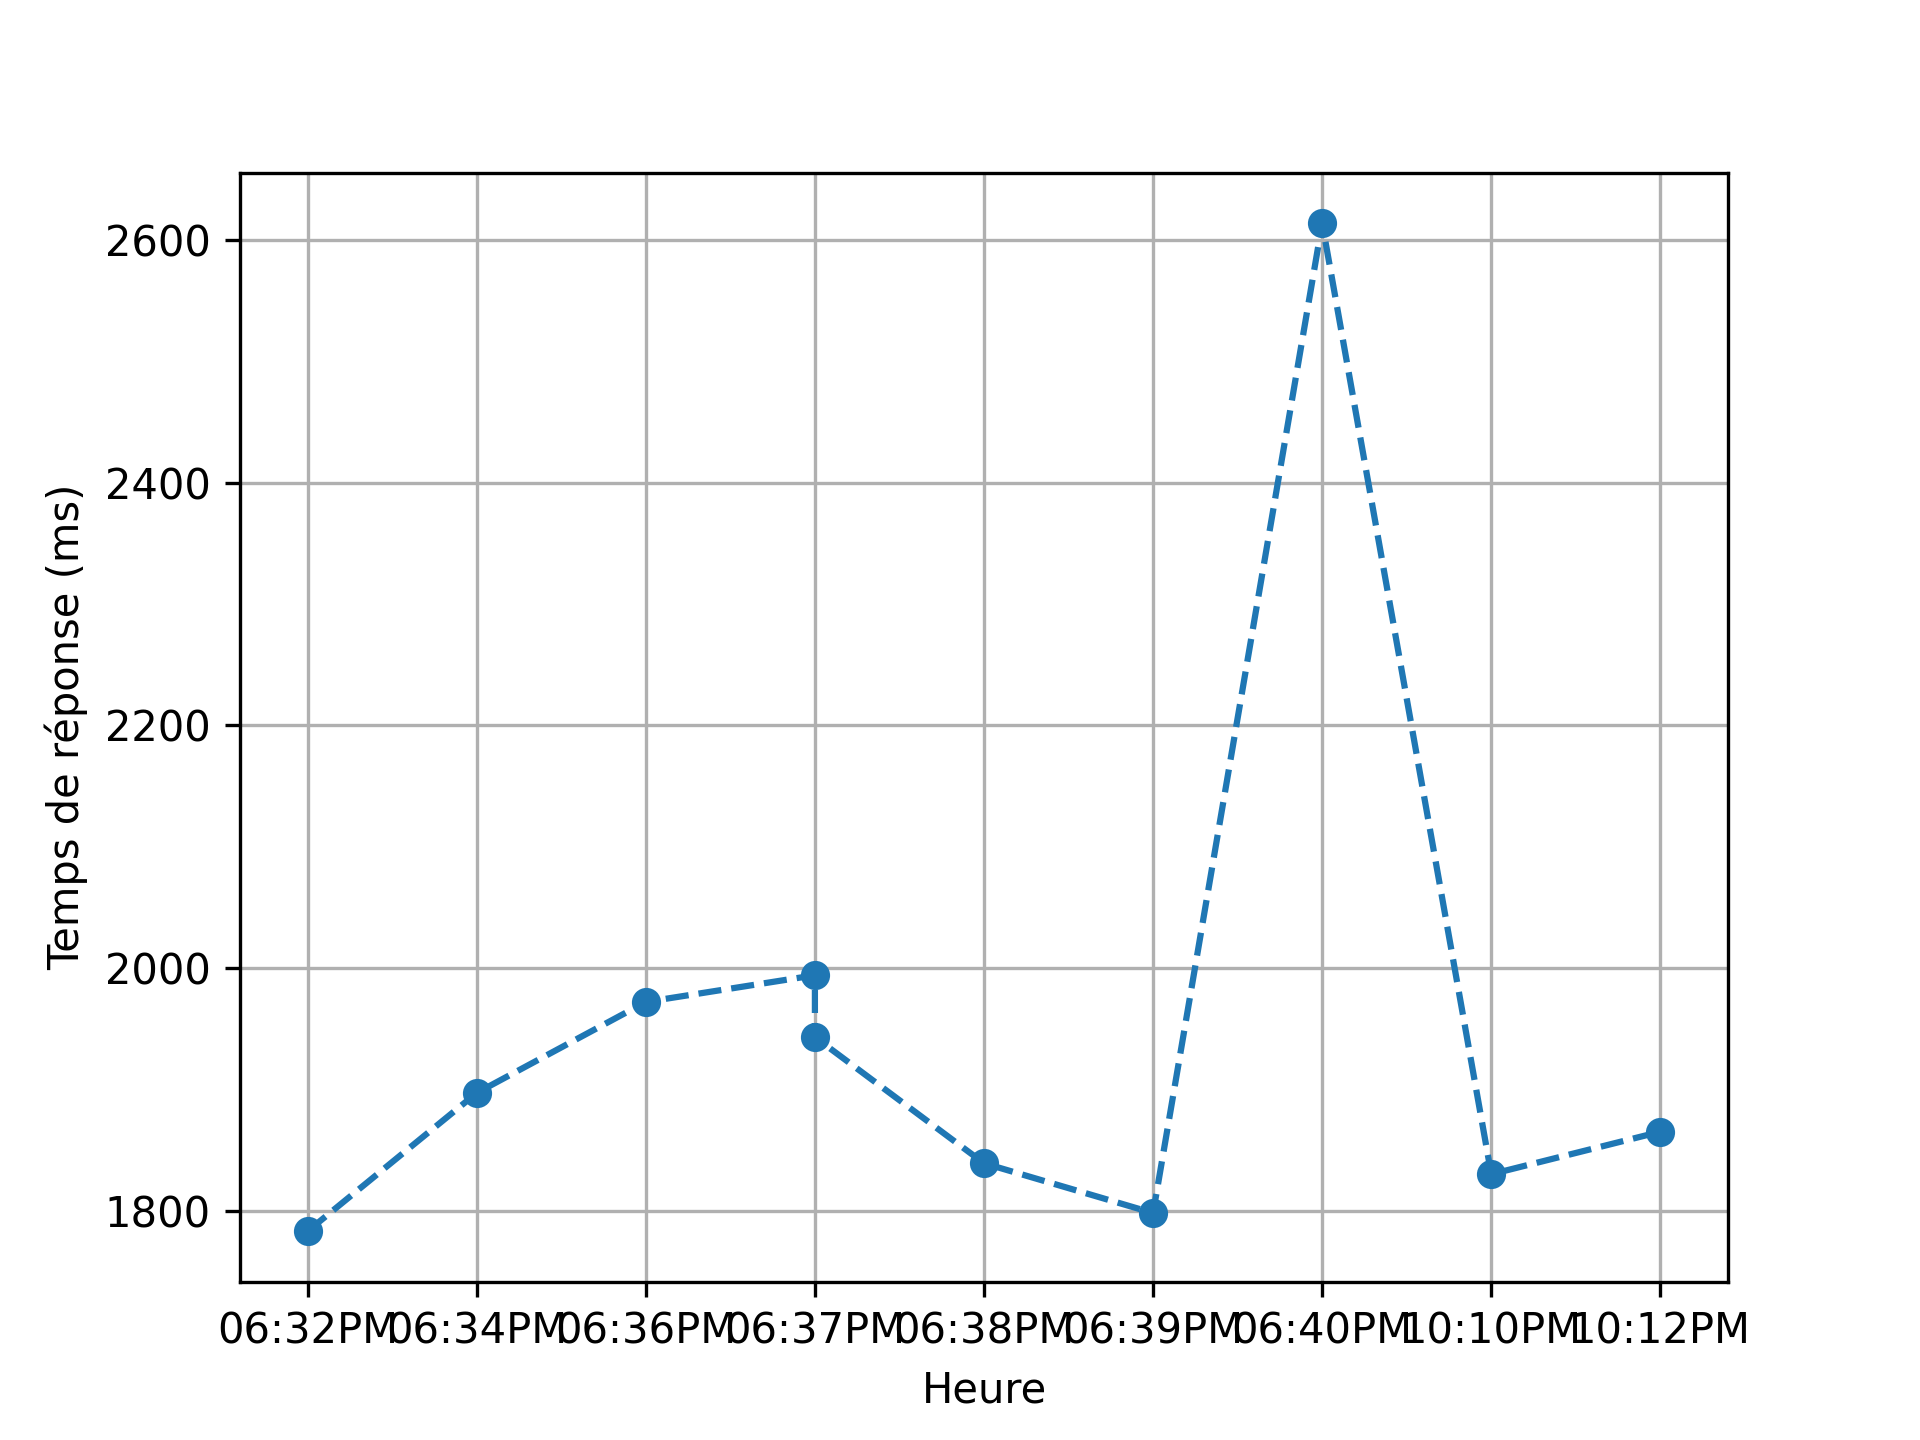
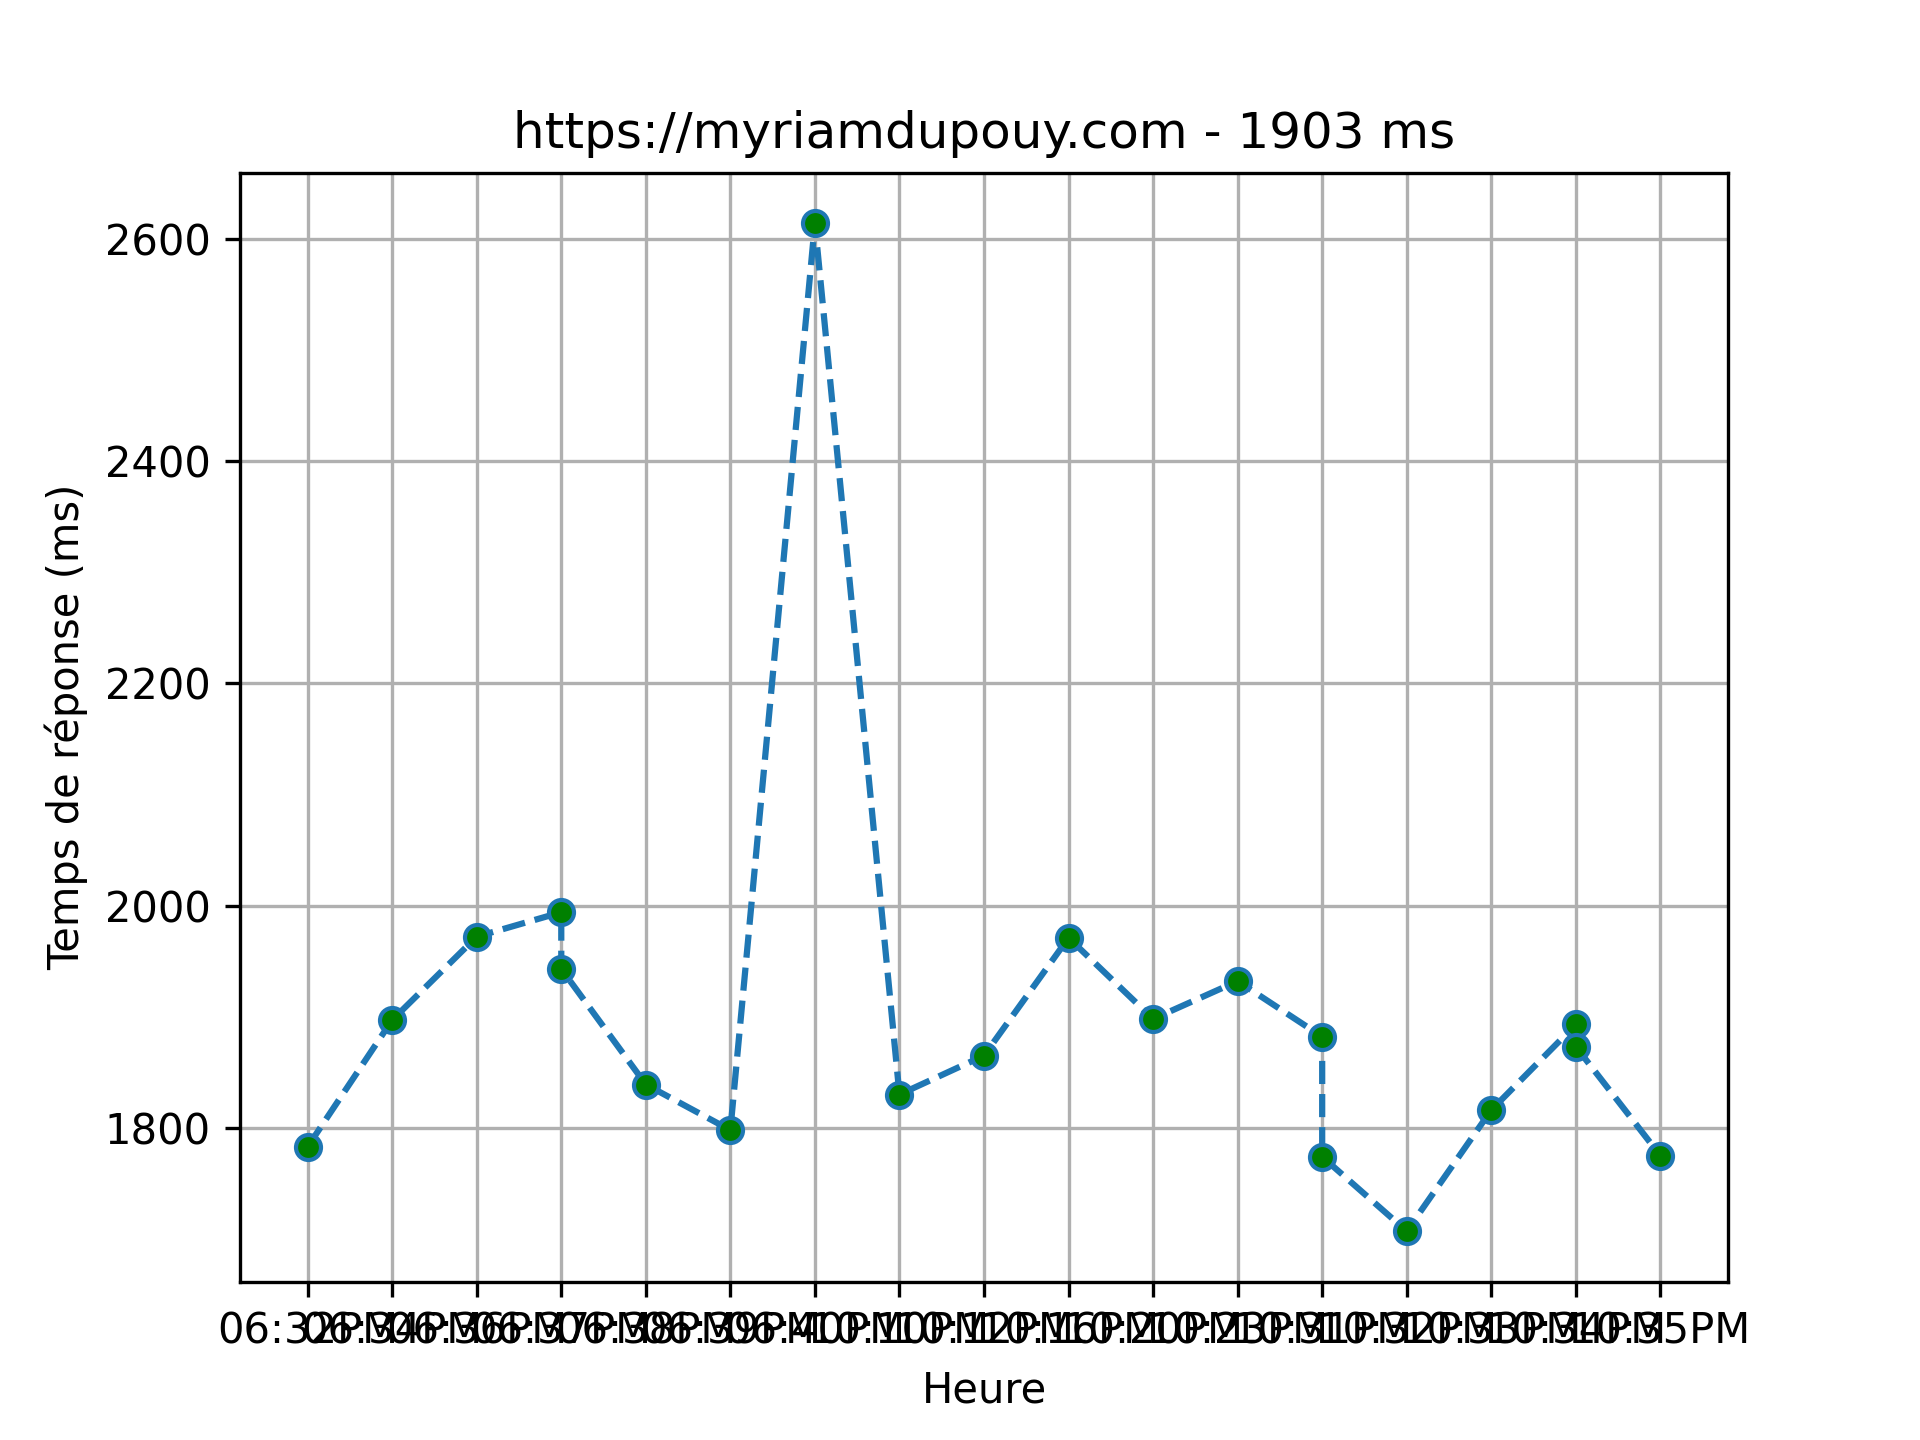
Ajout de la moyenne dans le titre du graphique avec arrondi

diff --git a/lanceSonde.py b/lanceSonde.py
@@ -8,6 +8,7 @@ import json
 from pathlib import Path
 
 import matplotlib.pyplot as plt
+import numpy as np
 
 # Suppression des Warning URLLIB3
 import urllib3
@@ -67,6 +68,8 @@ fileWrite.close()
 # Gestion du graphique
 ############################################################
 
+
+
 # Chargement des données pour l'axe Y
 for cle in data:
     labels.append(cle['heure'])
@@ -75,8 +78,15 @@ for cle in data:
 for cle in data:
     Tdr.append(cle['Tdr'])
 
+# Calcul la moyenne totale depuis toutes les données
+tabTdr = np.array(Tdr)
+moyTdf = np.mean(tabTdr) # Moyenne de toutes les données
+
+# Mise en place du Titre du Graphique avec le host sondé
+plt.title(host + " - " + str(round(moyTdf)) + " ms") 
+
 # Graphique avec des petits traits et des bulles
-plt.plot(labels,Tdr, marker='o', linestyle='dashed')
+plt.plot(labels,Tdr, marker='o', linestyle='dashed',markerfacecolor='green')
 
 # Nom des axes
 plt.ylabel('Temps de réponse (ms)')
@@ -89,10 +99,11 @@ ax.relim()
 ## update ax.viewLim using the new dataLim
 ax.autoscale_view()
 
+# Affichage de la grille
+plt.grid(True)  
 
-plt.grid(True)  # Affichage de la grille
-
-plt.savefig("Graphique.png", dpi=300)  # Sauvegarde en png avec un dpi de 300
+# Sauvegarde en png avec un dpi de 300
+plt.savefig("Graphique.png", dpi=300)  
 
 plt.show()
 #
